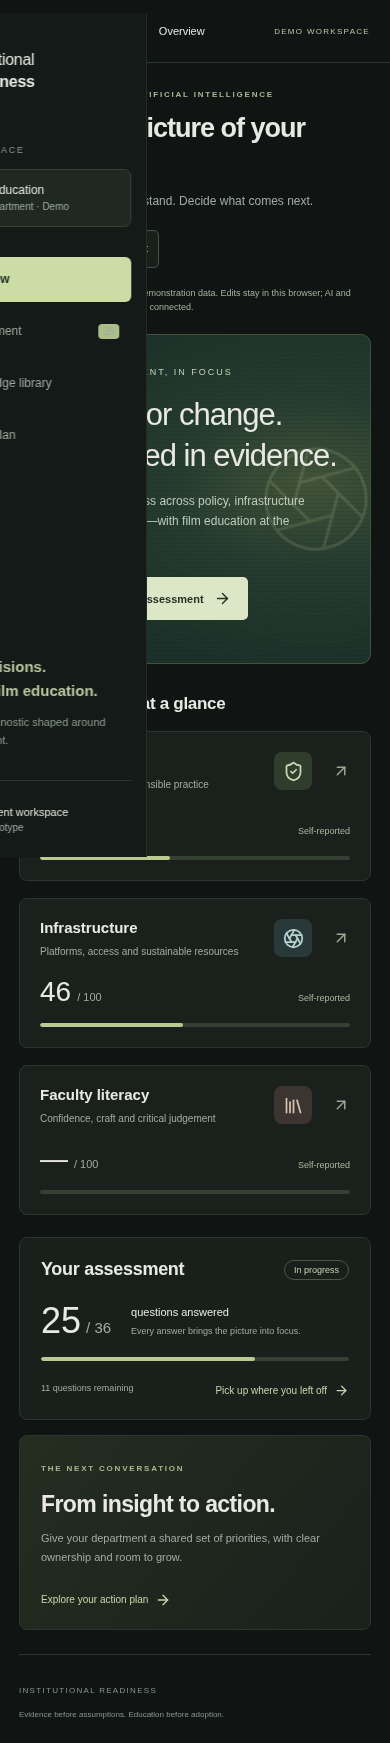
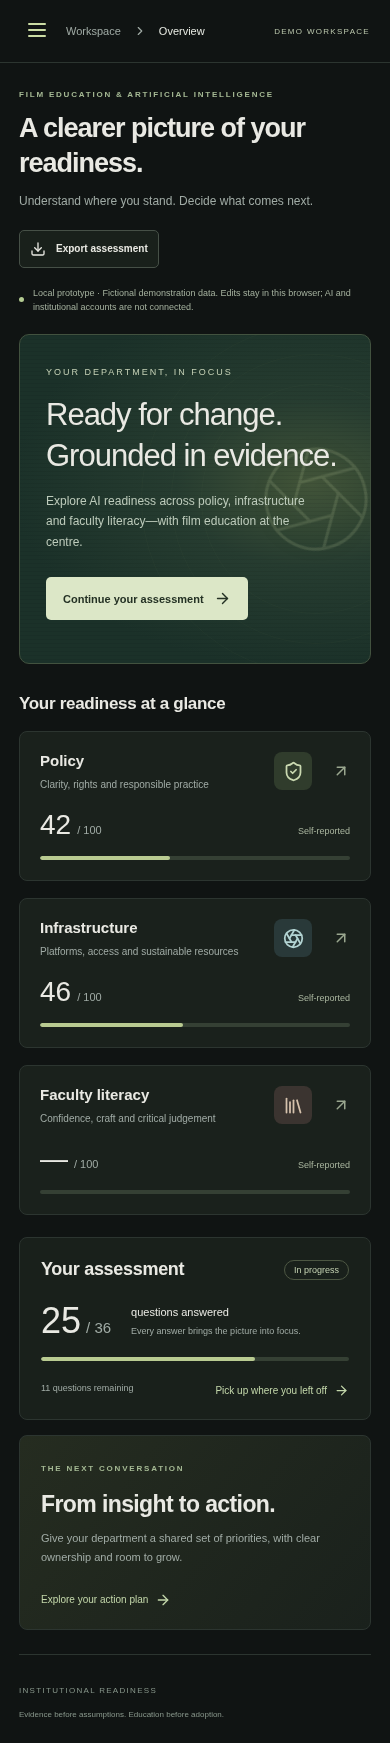
Record prototype verification and responsive previews

Changed region(s): [[0.0, 0.031, 0.4, 0.4957], [0.0, 0.4647, 0.0615, 0.4957]]

diff --git a/VERIFICATION.md b/VERIFICATION.md
@@ -1,0 +1,10 @@
+# Prototype verification
+
+15 October 2026:
+
+- Production TypeScript/Vite build passed.
+- Four Vitest scoring tests passed: unknown versus zero; non-applicable denominator; blueprint example; index suppression for insufficient coverage and unresolved gates.
+- Chromium desktop (1440px) and mobile (390px) checks passed: dashboard render, assessment edit, persistence after reload, report generation, action creation, JSON download, mobile navigation and no horizontal overflow. No JavaScript page errors were observed.
+- Desktop and mobile screenshots are included. The browser check used a temporary Playwright runner outside the application dependencies. It was a targeted smoke check, not a complete accessibility or security audit.
+
+No external Git repository or Netlify project is connected. Authentication, shared storage, document processing and live AI are not implemented in this milestone.
